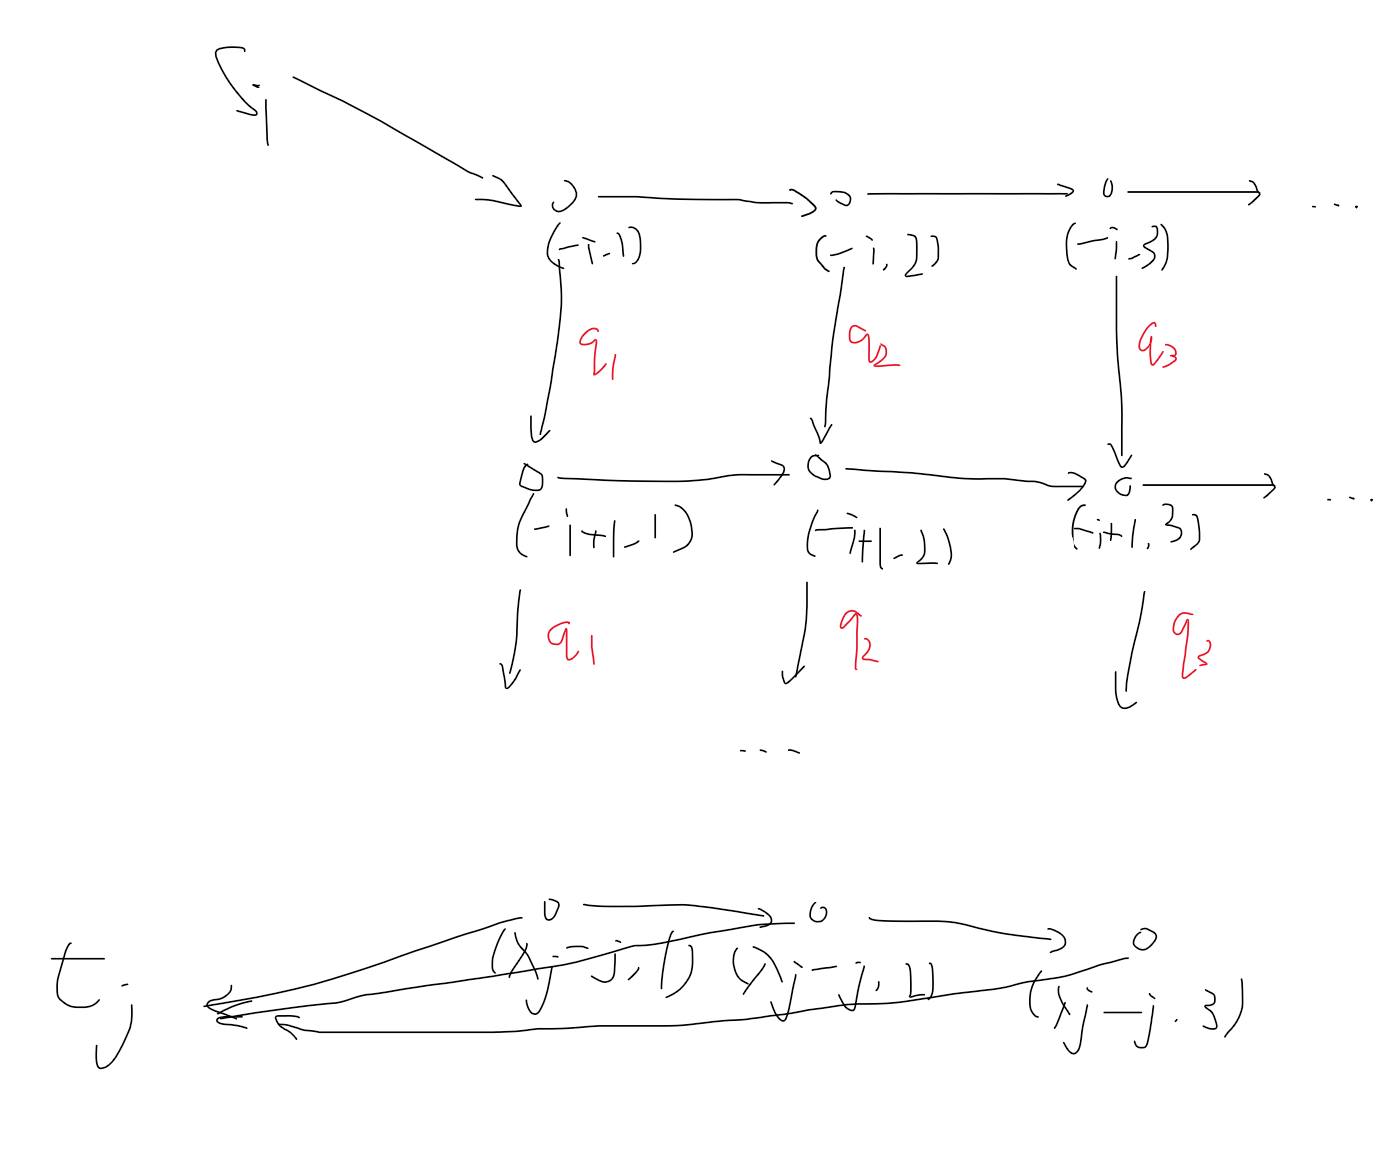
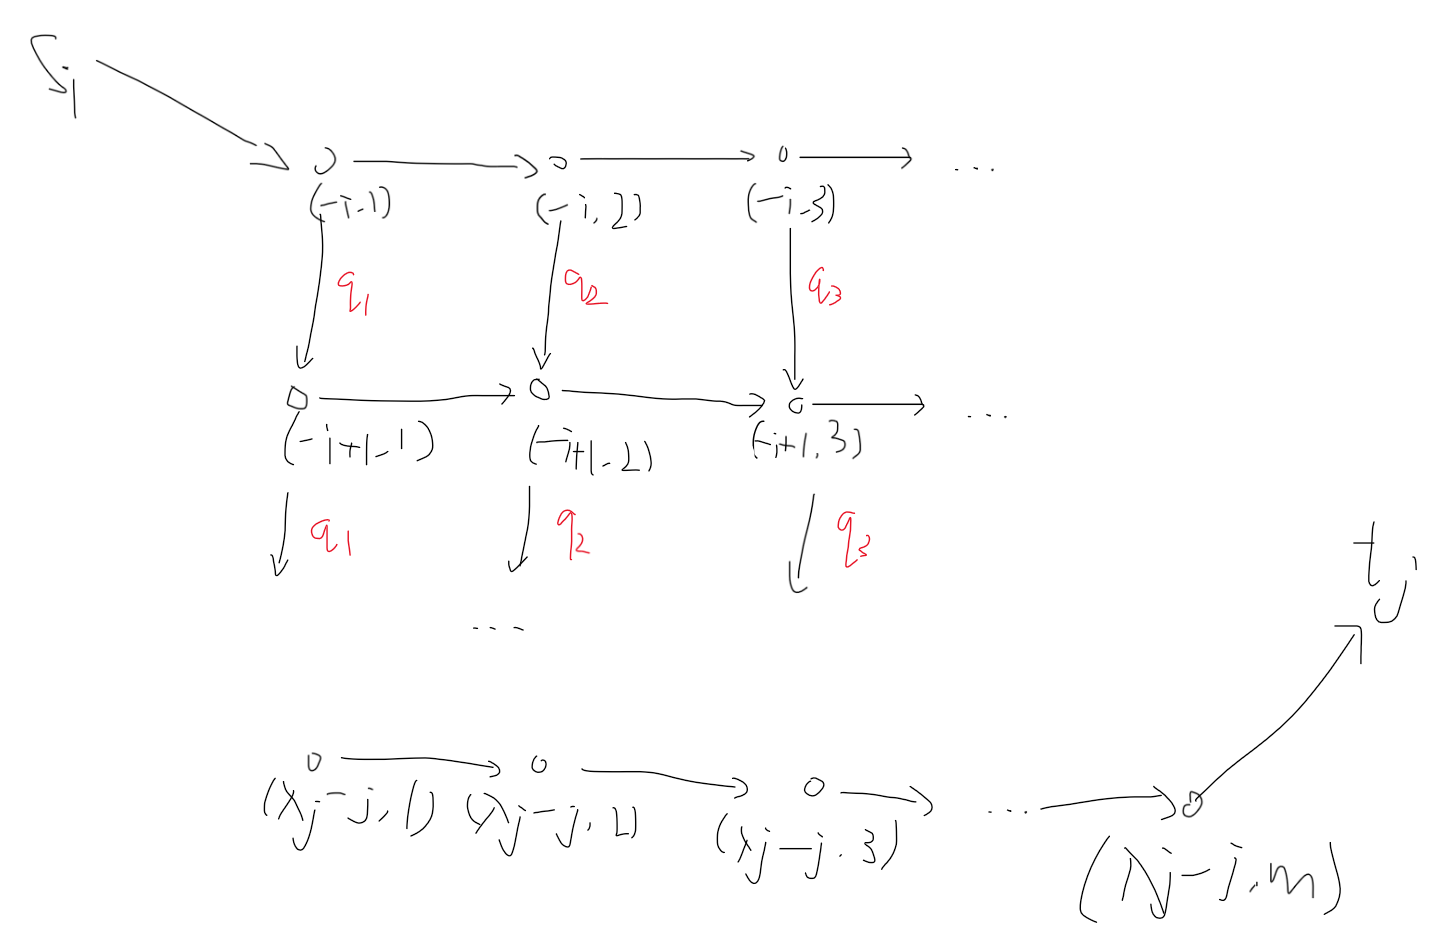
qaq

diff --git a/posts/tmp/nytoi-2021-t.md b/posts/tmp/nytoi-2021-t.md
@@ -15,4 +15,6 @@ title: NayutanOI2021T 题解 - 太陽系デスコ【Solar System Disco】
 
 <center><div style="width:100%;margin:0"><img src="https://xyix.gitee.io/images/nytoi-2021-t.png" style="width: 100%" alt=""></div></center>
 
-可见原问题被转化为不相交路径计数，使用 LGV 引理即可。
+没有标权值的边权值为 $1$。
+
+不难验证原问题被转化为不相交路径计数，使用 LGV 引理即可。
